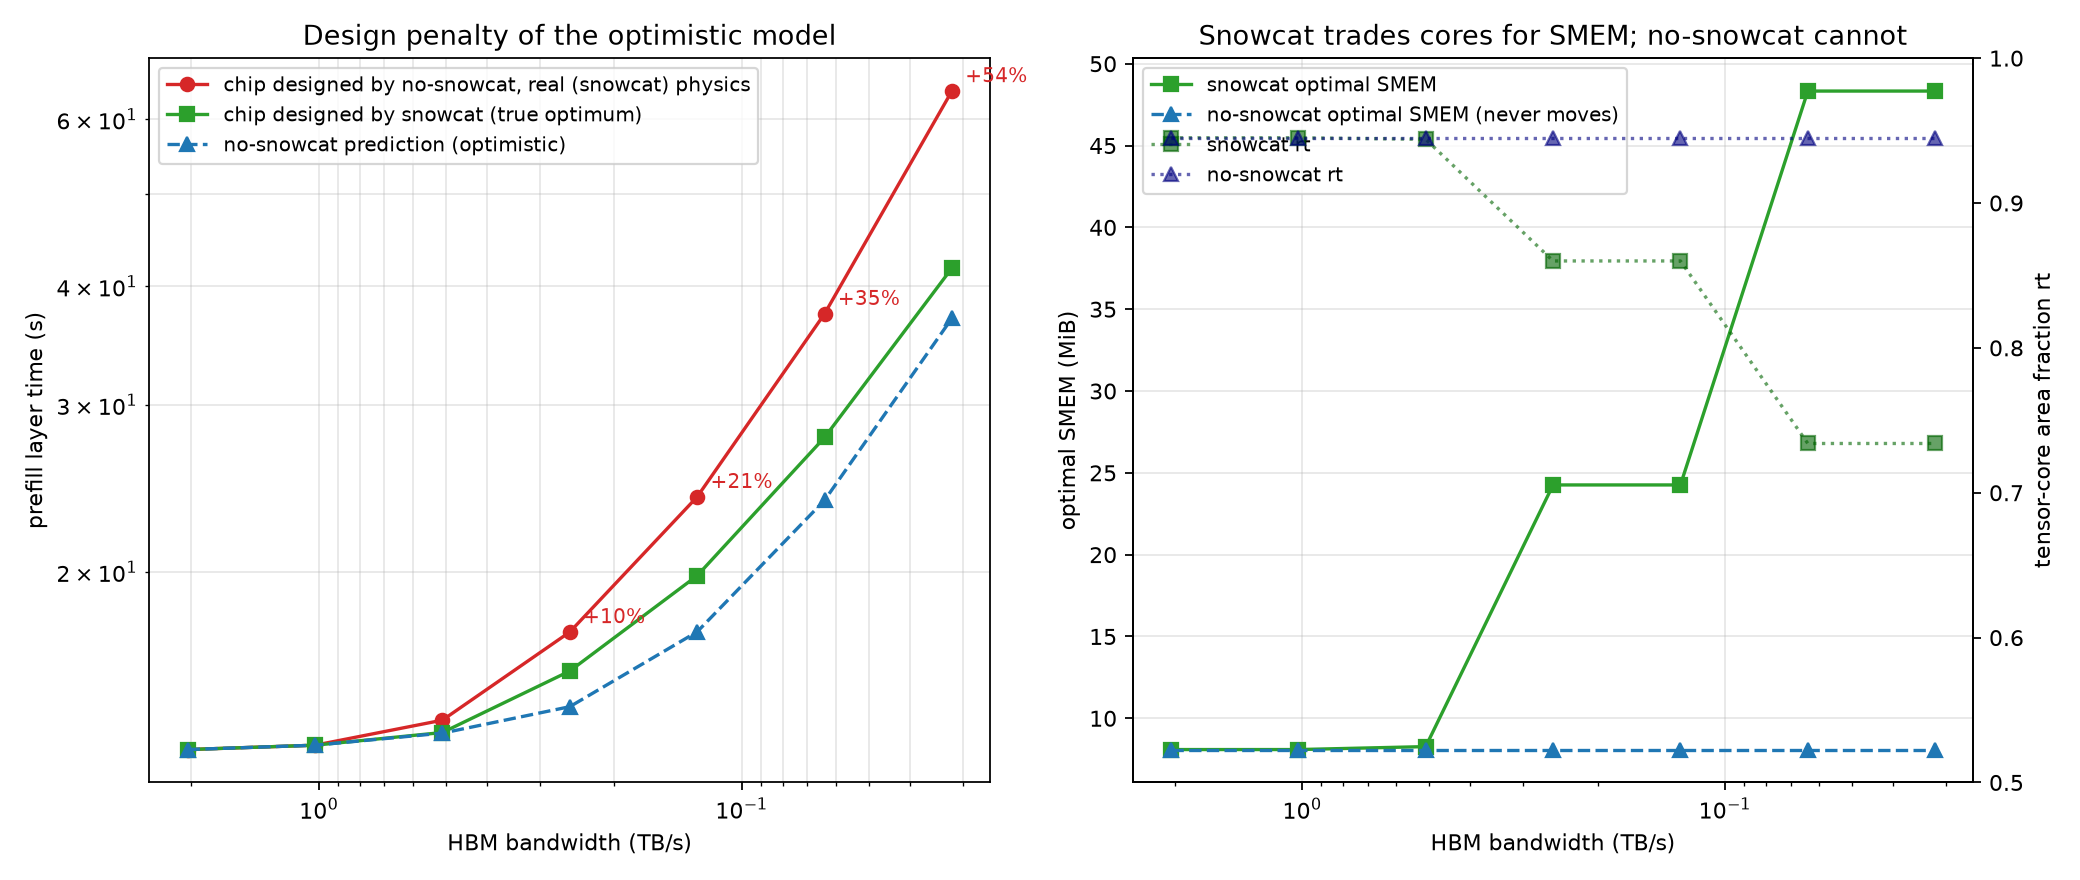
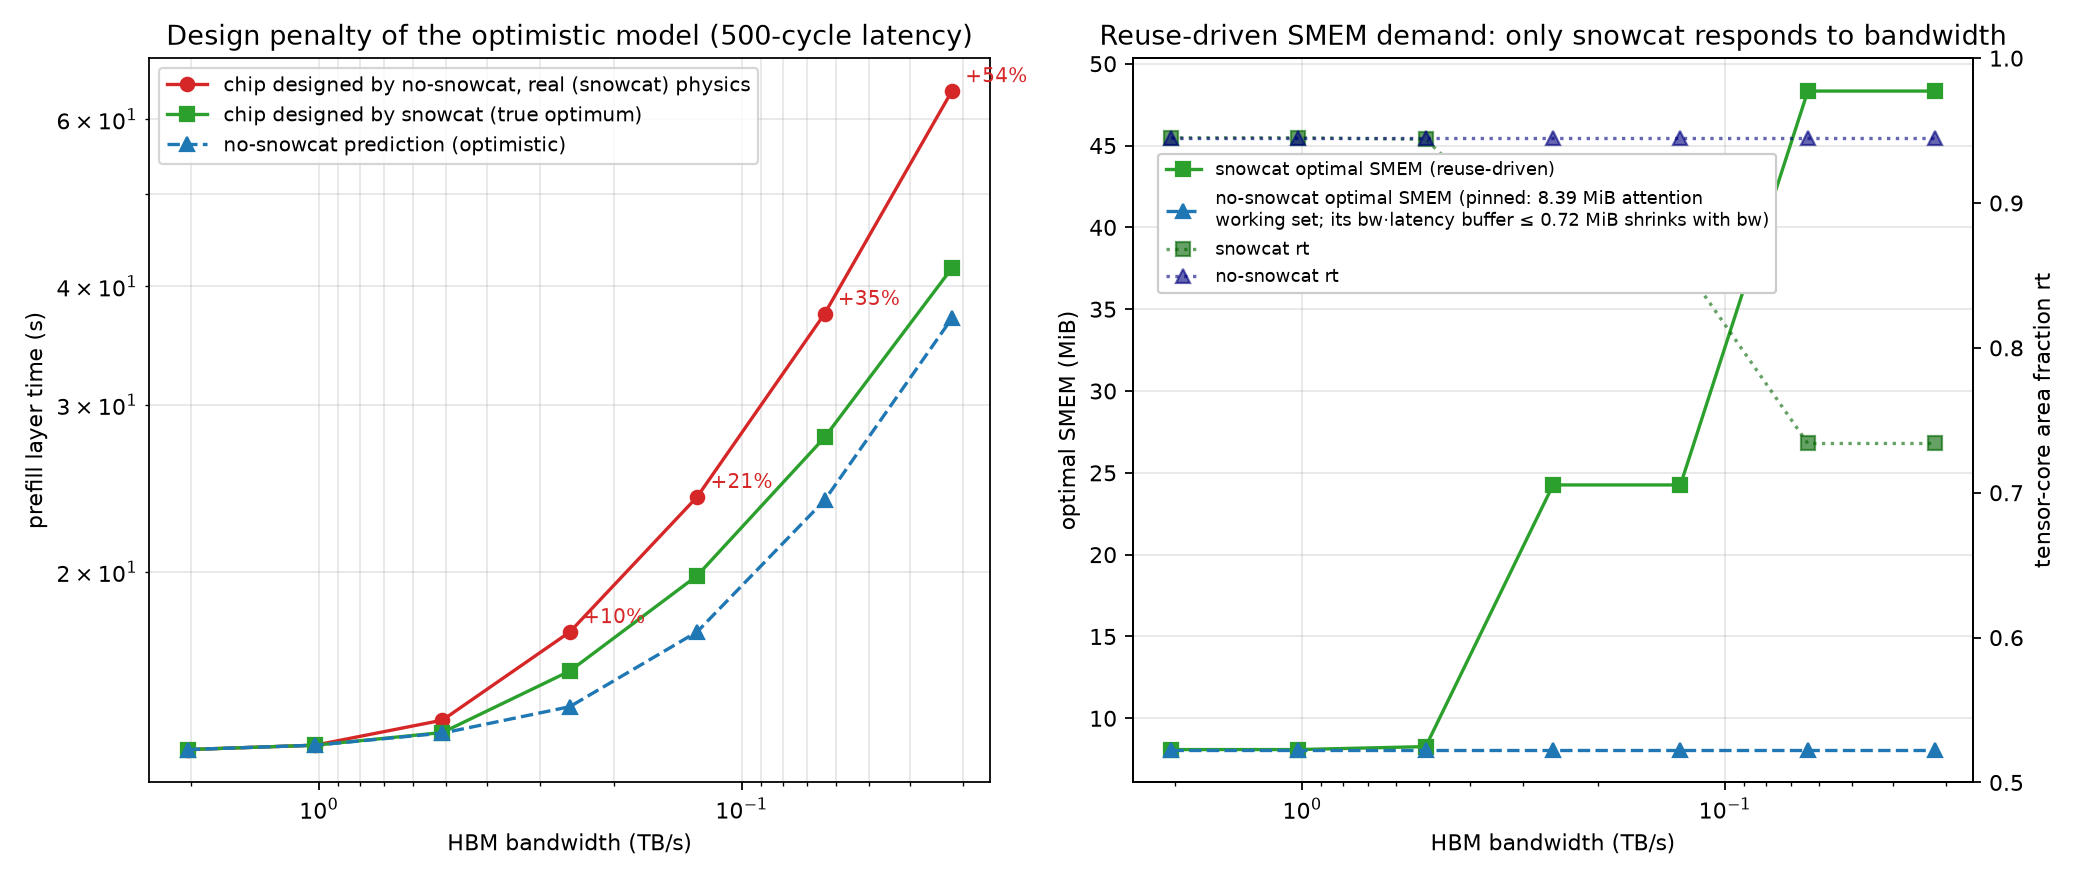
fixed report SMEM fact

Changed region(s): [[0.5312, 0.0307, 0.9688, 0.3375], [0.0625, 0.0307, 0.4688, 0.0614], [0.8125, 0.3068, 0.8438, 0.3375]]

diff --git a/snowcat_importance_report.md b/snowcat_importance_report.md
@@ -1,17 +1,33 @@
 # Why the Snowcat Traffic Model Matters for Design Decisions
 
-All numbers: GLM-5.2 single layer, A100-like cores, 2.04 TB/s HBM @ 500 cycles, BF16,
-area grid step 0.001. Produced with the `--no-snowcat` mode of the analyzers
-(`snowcat_mode_comparison.md` has the mechanics); both models re-optimize the
-rc/rt/SMEM split unless stated otherwise.
+Setup: one GLM-5.2 layer on an A100-like chip (2.04 TB/s HBM @ 500 cycles, BF16, area
+grid step 0.001). "Snowcat" = Pareto-frontier traffic + per-tiling `num_stages` latency
+hiding; "no-snowcat" = algorithmic-minimum traffic + whole-SMEM streaming buffer
+(`--no-snowcat`; mechanics in `snowcat_mode_comparison.md`). Attention cores and
+vector/norm tasks are identical in both models. Both models re-optimize the rc/rt/SMEM
+split unless stated otherwise.
 
-**Claim.** Snowcat contributes exactly one term to the model: *HBM traffic as a function
-of SMEM capacity*. Deleting it (algorithmic-minimum traffic, SMEM-independent OI) leaves
-time predictions intact only while that term is off the critical path. The four facts
-below locate where it is on the critical path — and show the optimistic model mispricing
-time by up to 1.74× and silicon by up to +54% there.
+## The two roles of SMEM, and the one term the models disagree on
 
-## Fact 1 — GEMM traffic is a steep function of SMEM; no-snowcat deletes the entire curve
+| SMEM's role | snowcat | no-snowcat |
+|---|---|---|
+| **Latency hiding (pipelining)** | `C = num_stages` simultaneous copies of the tile working set: `BW_eff = min(bw, C·W/latency)`, `C·W ≤ SMEM` | streaming buffer: `BW_eff = min(bw, SMEM/latency)` |
+| **Traffic reduction (reuse)** | `traffic(W)`: Pareto frontier, decreasing in tile size, needs `W ≤ SMEM/C` | **absent** — traffic fixed at the algorithmic minimum |
+
+The pipelining term is implemented differently but measures **identical to within one
+tile** in both models (`C·W ≈ bw·latency` — Fact 4). Every divergence below is therefore
+the single deleted quantity — **traffic(SMEM)** — entering the critical path.
+
+| Where | Effect of deleting traffic(SMEM) |
+|---|---|
+| HBM traffic accounting, default chip | understated **4.7×** per prefill layer (2–20× per stage) |
+| Time, both models re-optimized, default chip | ≤ 1.3% (invisible) |
+| Time prediction for a fixed chip, bandwidth-starved (bw/64) | **1.74×** too fast |
+| Silicon allocation, bandwidth-starved (bw/64) | recommended chip **+53.7%** slower |
+| Silicon allocation, default chip (0.75 MiB SMEM recommendation) | **+20.0%** slower |
+| Silicon allocation, latency-starved (128× latency) | +0.3% (pipelining term dominates → models agree) |
+
+## Fact 1 — The deleted curve: traffic is steep in SMEM
 
 ![Traffic amplification vs SMEM](img/snowcat_frontier_amplification.png)
 
@@ -24,11 +40,11 @@ Traffic amplification (snowcat frontier ÷ algorithmic minimum) at given SMEM wo
 | prefill mla_q_b (M=1,048,576 × N=16384 × K=2048) | 8.0× | 4.4× | 1.9× | 1.3× | 1.1× | 1.0× |
 | decode up_gate (M=64 × N=4096 × K=6144) | 1.0× | 1.0× | 1.0× | 1.0× | 1.0× | 1.0× |
 
-Amplification reaches 800× at KB-scale SMEM and stays 2–5× even at the 8 MiB design
-point when all three GEMM dimensions are large. It is 1.0× at any SMEM ≥ 0.2 MiB for
-decode-shaped (small-M, weight-streaming) GEMMs — the one case where no-snowcat is exact.
+800× at KB-scale SMEM; 2–5× at the 8 MiB design point when all three GEMM dimensions
+are large; 1.0× above 0.2 MiB for decode-shaped (small-M, weight-streaming) GEMMs — the
+one shape class where the deleted term is genuinely zero.
 
-## Fact 2 — At the default design points the two models agree on time, but for two coincidental reasons
+## Fact 2 — Default design points: the term is off the critical path — times agree, traffic does not
 
 | Analyzer | snowcat time | no-snowcat time | Δtime | snowcat traffic | no-snowcat traffic | Δtraffic |
 |---|---:|---:|---:|---:|---:|---:|
@@ -38,24 +54,21 @@ decode-shaped (small-M, weight-streaming) GEMMs — the one case where no-snowca
 | Prefill (1M prompt, DSA) | 12,992.39 ms | 12,992.39 ms | 0.00% | **4,461,236 MiB** | **943,062 MiB** | **−79%** |
 | Inference (prefill + 150 decode) | 13,150.88 ms | 13,150.88 ms | 0.00% | — | — | — |
 
-- Decode/FFN: memory-bound, but their GEMMs are decode-shaped → snowcat traffic *is* the
-  algorithmic minimum (Fact 1, row 4) → identical times.
-- Prefill: snowcat traffic is 4.7× the minimum, but the layer is tensor-bound → the
-  amplification is hidden under compute → identical times, wildly different traffic:
+Two distinct reasons: decode/FFN GEMMs are decode-shaped, so snowcat traffic *is* the
+minimum (Fact 1, row 4); prefill carries 4.7× amplification but is tensor-bound, so the
+term hides under compute:
 
 ![Prefill stage traffic](img/snowcat_prefill_stage_traffic.png)
 
-Any traffic-derived quantity — DRAM energy, bandwidth headroom, multi-SM contention —
-is understated 2–20× per stage (4.7× per layer) by the optimistic model, even where the
-time agrees to the microsecond.
+Every traffic-derived quantity — DRAM energy, bandwidth headroom, multi-SM contention —
+is understated 2–20× per stage even where time agrees to the microsecond.
 
-## Fact 3 — When memory-bound and SMEM-starved, the models diverge on time *and* on the design
+## Fact 3 — Bandwidth scarcity puts the term on the critical path: the models diverge
 
-Prefill pushed into the memory-bound regime by scaling bandwidth (both models re-optimize
-the split at every point; "designed chip" = no-snowcat's recommended split evaluated
-under snowcat physics):
+Prefill, bandwidth scaled down; "designed chip" = no-snowcat's recommended split
+evaluated under snowcat physics:
 
-| HBM bw (TB/s) | snowcat optimum | no-snowcat optimum | no-snowcat-designed chip | design penalty | fixed-chip prediction error |
+| HBM bw (TB/s) | snowcat optimum | no-snowcat optimum | designed chip | design penalty | fixed-chip prediction error |
 |---:|---|---|---:|---:|---:|
 | 2.040 | 12,992 ms (8.1 MiB, rt 0.945) | 12,992 ms (8.1 MiB, rt 0.945) | 12,992 ms | +0.0% | 1.00× |
 | 1.020 | 13,130 ms (8.1 MiB) | 13,130 ms (8.1 MiB) | 13,130 ms | +0.0% | 1.00× |
@@ -67,45 +80,16 @@ under snowcat physics):
 
 ![Bandwidth sweep](img/snowcat_bw_sweep.png)
 
-- **Prediction error (same chip):** at bw/64, the 8 MiB chip really takes 64.3 s; the
-  optimistic model predicts 37.0 s — 1.74× under, approaching the traffic ratio.
-- **Design error (the structural failure):** snowcat responds to bandwidth scarcity by
-  trading cores for SMEM (8 → 24 → 48 MiB, rt 0.945 → 0.734). No-snowcat never moves —
-  in that model SMEM has zero marginal value beyond the bw·latency streaming buffer
-  (723 KB at the fixed 500-cycle latency of this sweep; see Fact 5 for the latency
-  axis) — and the chip it recommends is +54% slower than the snowcat-informed design.
-  The penalty grows monotonically with bandwidth scarcity; the same divergence appears
-  if tensor throughput rises instead of bandwidth falling (any compute:bandwidth ratio
-  ≳ 8× the A100-like baseline).
+Snowcat trades cores for SMEM (8 → 24 → 48 MiB, rt 0.945 → 0.734) because larger tiles
+cut traffic. No-snowcat's SMEM demand — max(bw·latency buffer, 8.39 MiB attention
+working set) — is bandwidth-insensitive (the buffer *shrinks* with bw), so its
+recommendation never moves along this axis and the gap grows without bound. The same
+divergence appears if tensor throughput rises instead of bandwidth falling
+(compute:bandwidth ratio ≳ 8× baseline).
 
-## Fact 4 — Snowcat is the only source of SMEM's *reuse* value in the area trade-off
+## Fact 4 — Latency scarcity stresses only the pipelining term, which both models share: they converge
 
-Best achievable time vs SMEM budget (rc/rt re-optimized at every point):
-
-![Time vs SMEM](img/snowcat_time_vs_smem.png)
-
-- Left (memory-bound FFN, default bw): the models diverge below ~2 MiB — no-snowcat
-  claims a 0.75 MiB chip matches a 2.3 MiB one (10.61 ms); snowcat shows +23% at
-  0.75 MiB (13.0 vs 10.6 ms) and the gap exploding below that. The optimistic model
-  renders the entire low-SMEM region of every area map falsely flat.
-- Right (memory-bound prefill, bw/16): no-snowcat's curve is *monotonically increasing*
-  — it prices SMEM as pure waste and pins the design at the 8 MiB attention-tile floor.
-  Snowcat's curve has a valley at 24.3 MiB (19.8 s); the no-snowcat design point really
-  costs 24.0 s (+21%). An SMEM↔cores trade-off worth 21–54% of performance is
-  *invisible in principle* to the algorithmic-minimum model.
-
-One further structural error: the no-snowcat fused-FFN minimum assumes the SwiGLU
-intermediate stays on chip regardless of size — 512 KB/expert at the decode default
-(plausible) but 128 MiB/expert at prefill scale (physically impossible at any split);
-snowcat's working-set feasibility check is what catches this class of fiction.
-
-## Fact 5 — SMEM demand has a second component: `num_stages` copies of the tile working set. It is mode-independent, so the models *converge* under latency scarcity
-
-In the snowcat latency model, SMEM holds `C = num_stages` simultaneous copies of the
-tile working set W (`C·W ≤ SMEM`, `BW_eff = min(bw, C·W/latency)`): higher latency
-demands more in-flight copies, and this pipelining footprint competes with using SMEM
-for reuse (larger W). HBM-latency sweep on the two memory-bound workloads (both models
-re-optimized per point; snowcat's winning up_gate tiling shown):
+FFN (batch 4096), latency scaled up; snowcat's winning up_gate tiling shown:
 
 | HBM latency (cyc) | bw·latency | snowcat optimum | no-snowcat optimum | up_gate tile W | C | C·W | design penalty | fixed-chip pred. error |
 |---:|---:|---|---|---:|---:|---:|---:|---:|
@@ -116,51 +100,60 @@ re-optimized per point; snowcat's winning up_gate tiling shown):
 | 32,000 | 44.15 MiB | 10.622 ms (45.51 MiB) | 10.622 ms (44.19 MiB) | 1,156 KiB | 40 | 45.16 MiB | +0.5% | 1.01× |
 | 64,000 | 88.31 MiB | 10.879 ms (87.06 MiB) | 10.860 ms (86.50 MiB) | 1,156 KiB | 77 | 86.93 MiB | +0.3% | 1.00× |
 
-(FFN, batch 4096. Decode layer, batch 2048/1M ctx: same SMEM trajectory 1.3 → 88 MiB
-in both models, times 1,224.5 → 1,233.0 ms, design penalty ≤ +0.1% at every latency —
-its dominant KV-stream/attention pipeline model is mode-identical.)
+(Decode layer, batch 2048/1M ctx: same SMEM trajectory 1.3 → 88 MiB in both models,
+times 1,224.5 → 1,233.0 ms, design penalty ≤ +0.1% everywhere — its dominant
+KV-stream/attention pipeline is mode-identical by construction.)
 
 ![Latency sweep](img/snowcat_latency_sweep.png)
 
-- **The flagged mechanism, confirmed directly:** snowcat hides latency by replicating
-  the *same* min-traffic 1,156 KiB tile — W never changes, `C` scales 1 → 77, and
-  `C·W` tracks bw·latency to within one tile. SMEM demand therefore decomposes into
-  **reuse (W, mode-dependent) + pipelining (C·W ≈ bw·latency, mode-independent)**.
-- **Both models' optimal SMEM scales with latency** (no-snowcat 0.75 → 86.5 MiB) — the
-  "no-snowcat SMEM never moves" behavior of Fact 3 is a fixed-latency artifact. For
-  *latency-driven* SMEM sizing, no-snowcat is accurate to O(one tile): bw·latency
-  dominates and is the same physics in both models.
-- **Latency scarcity makes the models converge; bandwidth scarcity makes them diverge**
-  (design penalty +20% → +0.3% as latency grows 128×, vs +0% → +54% as bandwidth falls
-  64× in Fact 3). Once bw·latency ≫ W, any SMEM that hides latency automatically fits
-  many copies of the min-traffic tile, so the reuse term is satisfied for free.
-- **The largest error is at the *default* 500-cycle point:** no-snowcat's 0.75 MiB pick
-  cannot fit the 1.13 MiB min-traffic tile, so under real physics the chip pays
-  amplified up_gate traffic — +20.0% on this memory-bound layer. The reuse term, not
-  the latency term, is what the optimistic model gets wrong.
-- Time itself is latency-insensitive in both models when SMEM is re-optimized
-  (10.613 → 10.879 ms across 128× latency): buying bw·latency of SMEM stays cheap
-  until it displaces half the cores (88 MiB = 46% of die at 64k cycles, rt 0.97 → 0.52).
+- Snowcat hides latency by replicating the *same* min-traffic tile: W stays 1,156 KiB,
+  `C` scales 1 → 77, `C·W` tracks bw·latency to within one tile — SMEM really holds
+  `num_stages` copies of the tile footprint.
+- Both models' optimal SMEM grows identically with latency (0.75 → 86.5 MiB): for
+  latency-driven SMEM sizing the models agree to O(one tile), because the pipelining
+  term is mode-independent.
+- Divergence *shrinks* as latency grows (+20.0% → +0.3%): once bw·latency ≫ W, any SMEM
+  that hides latency automatically fits the min-traffic tile, zeroing the deleted term.
+  The largest error is at the **default** 500-cycle point, where no-snowcat's 0.75 MiB
+  pick cannot fit the 1.13 MiB min-traffic tile.
+- Re-optimized time is latency-insensitive in both models (10.613 → 10.879 ms across
+  128×) until the bw·latency footprint displaces cores (87 MiB = 46% of die, rt 0.97 → 0.52).
+
+## Fact 5 — The SMEM axis: only snowcat sees the low-SMEM cliff and the scarce-bandwidth valley
+
+Best achievable time vs SMEM budget (rc/rt re-optimized at every point):
+
+![Time vs SMEM](img/snowcat_time_vs_smem.png)
+
+- Left (FFN, default bw): both curves rise below the ≈0.7 MiB bw·latency buffer (shared
+  pipelining term). Between 0.7 and ~2 MiB only snowcat rises — the deleted term: the
+  0.75 MiB chip that no-snowcat calls optimal (10.61 ms) really takes 12.73 ms
+  (**+20.0%**); 17.7 ms at 0.56 MiB (+67%); 58.9 ms at 0.19 MiB (5.5×).
+- Right (prefill, bw/16): no-snowcat's curve is monotonically increasing above the
+  8.39 MiB attention floor (its bw·latency buffer is 45 KB here), so it reads extra
+  SMEM as pure waste; snowcat's curve has a valley at 24.3 MiB (19.8 s) that the
+  no-snowcat design point misses at 24.0 s (+21%).
+
+Feasibility is part of the same deleted machinery: the no-snowcat fused-FFN minimum
+keeps the SwiGLU intermediate on chip regardless of size — 512 KB/expert at the decode
+default (plausible) but 128 MiB/expert at prefill scale (impossible at any split);
+snowcat's working-set check is what rejects such tilings.
 
 ## Conclusions
 
 | Question asked of the model | No-snowcat verdict | Requires snowcat? |
 |---|---|---|
 | Time, compute-bound workload (prefill @ 2 TB/s) | exact (0.00%) | no |
-| Time, memory-bound with weight-streaming GEMMs (decode, FFN, ≥ 2 MiB SMEM) | exact (≤0.08%) | no |
-| Time, memory-bound with large-operand GEMMs or SMEM below the min-traffic tile | **up to 1.74× under** | **yes** |
-| HBM traffic / DRAM energy / bandwidth headroom | **2–20× per stage under (4.7×/layer)** | **yes** |
-| SMEM for latency hiding (pipelining footprint `C·W ≈ bw·latency`) | accurate to O(one tile) at every latency (Fact 5) | no |
-| SMEM for data reuse (traffic reduction via tile size W) | **priced at zero — +20% design penalty even at the default 500-cycle point** | **yes** |
-| Core↔SMEM area allocation under bandwidth scarcity | **+10% to +54% silicon misallocation** | **yes** |
+| Time, memory-bound decode-shaped GEMMs, SMEM re-optimized ≥ min-traffic tile | exact to ≤0.2% at every latency tested | no |
+| SMEM for latency hiding (pipelining footprint `C·W ≈ bw·latency`) | accurate to O(one tile) at every latency (Fact 4) | no |
+| Time, memory-bound with large-operand GEMMs or SMEM below the min-traffic tile | **up to 1.74× under** (Facts 3, 5) | **yes** |
+| HBM traffic / DRAM energy / bandwidth headroom | **2–20× per stage under (4.7×/layer)** (Fact 2) | **yes** |
+| SMEM for traffic reduction (tile-size choice) | **term absent: +20% penalty at default, +54% at bw/64** (Facts 3–5) | **yes** |
+| On-chip feasibility of fusion working sets | unchecked (128 MiB/expert accepted) | **yes** |
 
-The algorithmic-minimum model is a valid *lower bound on traffic* and *upper bound on
-what better tiling could ever recover* (≤1.3% of time at the baseline design points),
-and — per Fact 5 — it prices SMEM's *pipelining* value (num_stages copies of the tile
-working set, ≈ bw·latency, mode-independent) correctly. What it deletes is SMEM's
-*reuse* value, the curve traffic(SMEM): every question that involves sizing SMEM for
-reuse, pricing bandwidth, or accounting for memory traffic gets its answer from that
-curve. The baseline agreement between the models is a property of this particular
-workload/chip ratio — not of the optimistic model — and it evaporates exactly where
-the design decisions become non-trivial: scarce bandwidth (diverging, up to +54%) and
-SMEM budgets near or below the min-traffic tile (+20% at the default operating point).
+One sentence: both models price SMEM's *pipelining* role (bw·latency, num_stages copies
+of the tile) the same, so removing snowcat is safe exactly where traffic(SMEM) is flat —
+decode-shaped GEMMs or compute-bound layers with SMEM above the min-traffic tile — and
+unsafe everywhere a design decision hinges on the traffic(SMEM) curve it deletes: SMEM
+sizing near or below the min-traffic tile (+20% at the default chip), core↔SMEM
+allocation under bandwidth scarcity (up to +54%), and any traffic/energy accounting (4.7×).

diff --git a/snowcat_mode_comparison.md b/snowcat_mode_comparison.md
@@ -70,6 +70,15 @@ streaming buffer `BW_eff = min(bw, SMEM/latency)`. Saturating `bw = 2.04 TB/s` a
 all and collapse to the grid minimum (0.188 MiB). The freed area buys ~3–10 extra tensor
 cores — worth ≤0.4% in time.
 
+Two caveats (measured in `snowcat_importance_report.md`, Facts 4–5): the bw·latency
+pipelining footprint is not Snowcat-specific — under Snowcat it appears as
+`num_stages` simultaneous copies of the tile working set (`C·W ≈ bw·latency`), so both
+models' SMEM demand grows identically with latency (0.75 → 86.5 MiB at 500 → 64,000
+cycles). And the smaller no-snowcat recommendation is not free: at 0.752 MiB the
+Snowcat-modeled FFN runs +20% slower (12.73 vs 10.61 ms) because the 1.13 MiB
+min-traffic up_gate tile no longer fits — the mode difference shows up in the *design*,
+not in the re-optimized time.
+
 **Exception — prefill (and therefore inference/batched) is bit-identical in both modes**: its
 optimum is pinned at 8.086 MiB not by Snowcat but by the flash-attention working set
 (`ATTN_FLASH_BLOCK = 128` rows × 64 heads × 512 × 2 B = 8.39 MiB per pipeline stage, one stage
@@ -116,8 +125,9 @@ decode stays bandwidth-bound and split-indifferent, prefill stays tensor-bound a
 combined design (same 858-tensor/326-CUDA split, pinned by the 8 MiB flash-attention tile),
 and end-to-end inference time is identical to the digit. What Snowcat actually contributes at
 these optima is not time but **fidelity of the memory-system picture**: the honest SMEM
-requirement (a few MiB rather than a 723 KB streaming buffer) and the real HBM traffic, which
-the algorithmic-minimum model understates by up to 4.7× (prefill) — the gap a real chip would
-pay in DRAM energy and bandwidth headroom. Use `--no-snowcat` as an optimistic lower bound on
+requirement (enough for the min-traffic tile *times* the `num_stages ≈ bw·latency/W`
+in-flight copies, rather than a bare bw·latency streaming buffer) and the real HBM traffic,
+which the algorithmic-minimum model understates by up to 4.7× (prefill) — the gap a real
+chip would pay in DRAM energy and bandwidth headroom. Use `--no-snowcat` as an optimistic lower bound on
 traffic and an upper bound on how much any smarter tiling could ever help: for these
 workloads, at most 1.3% of time.